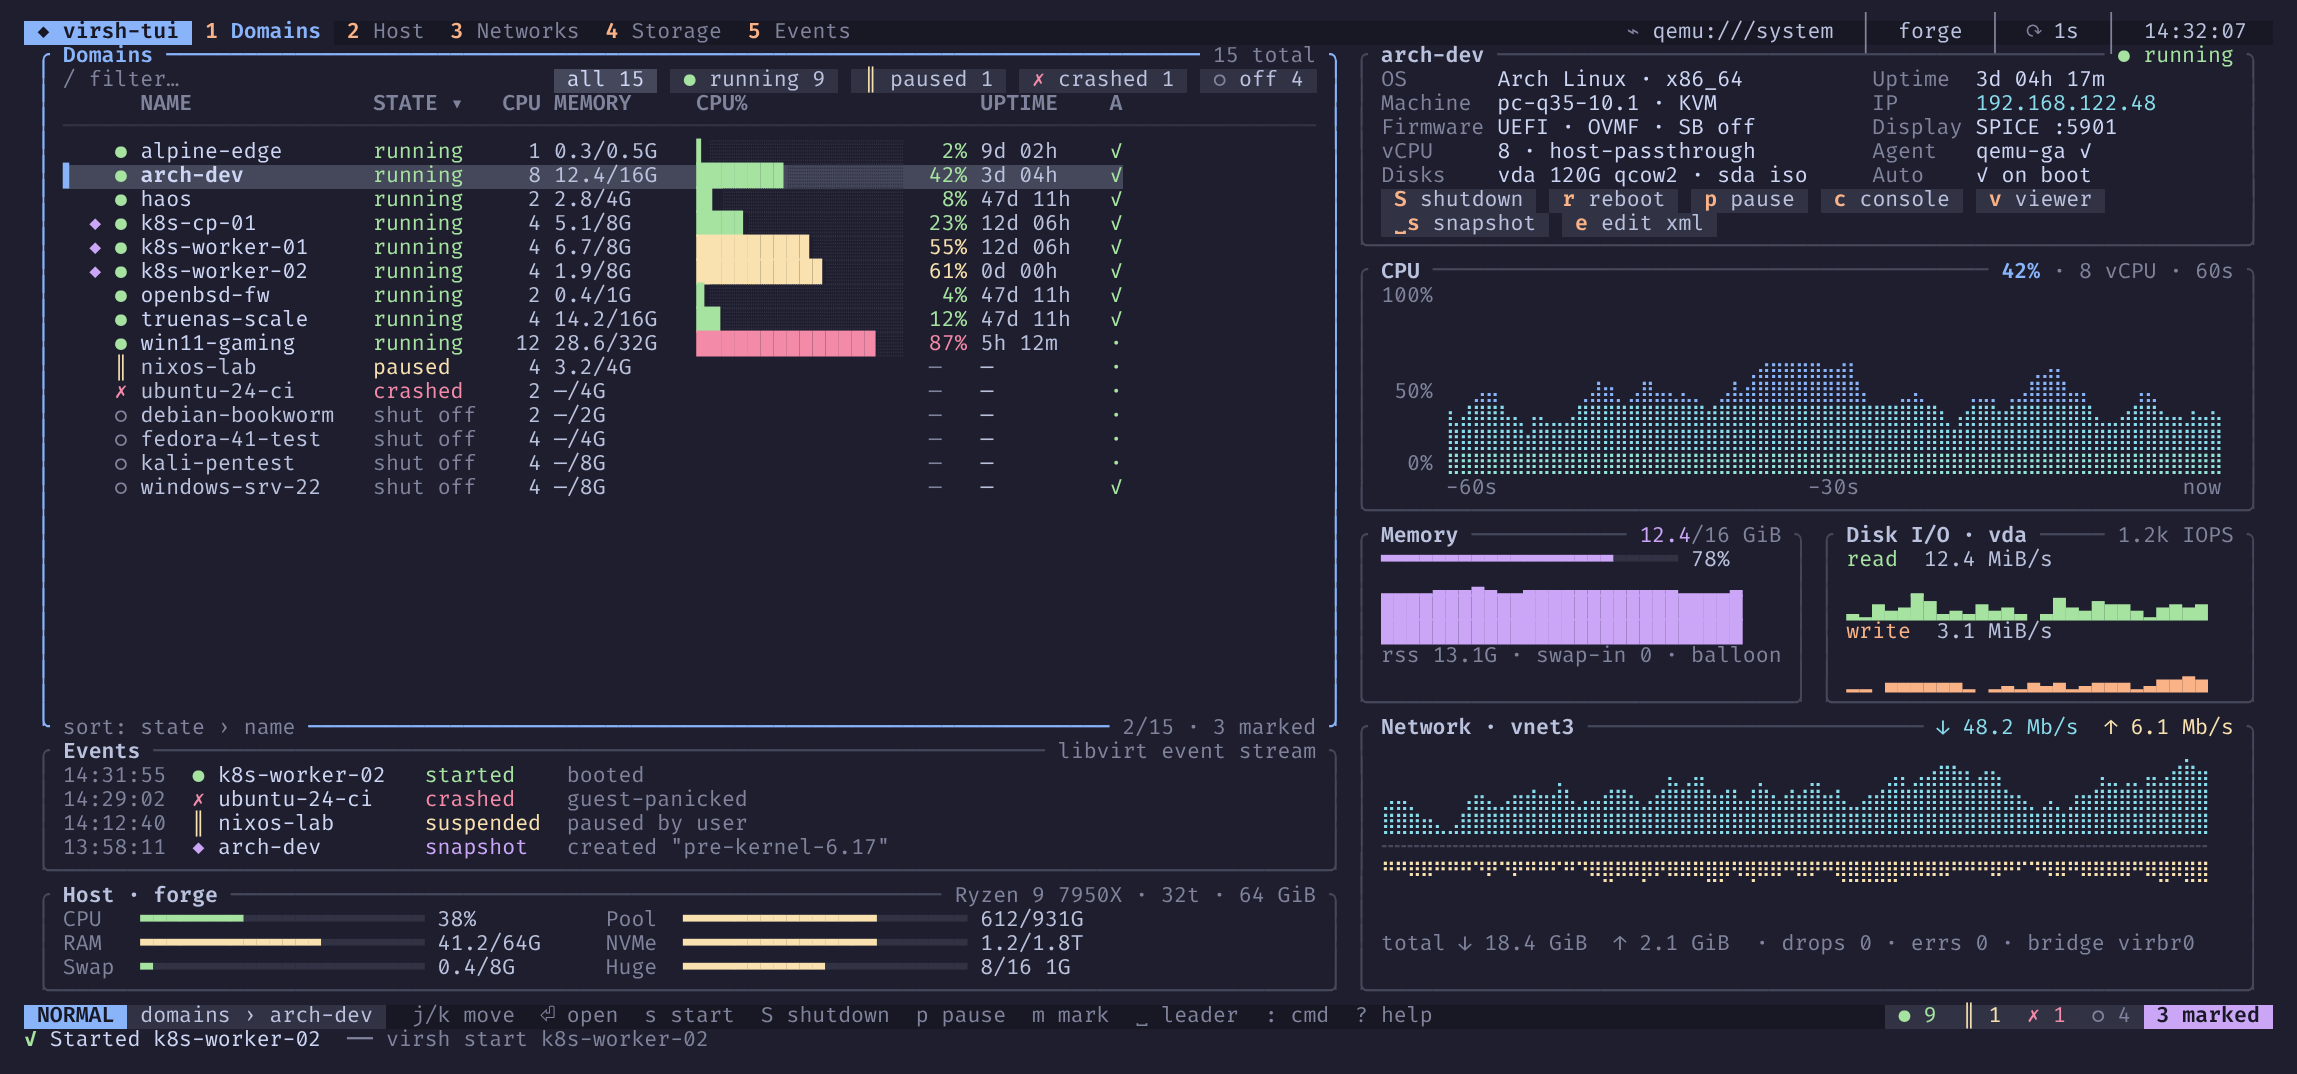
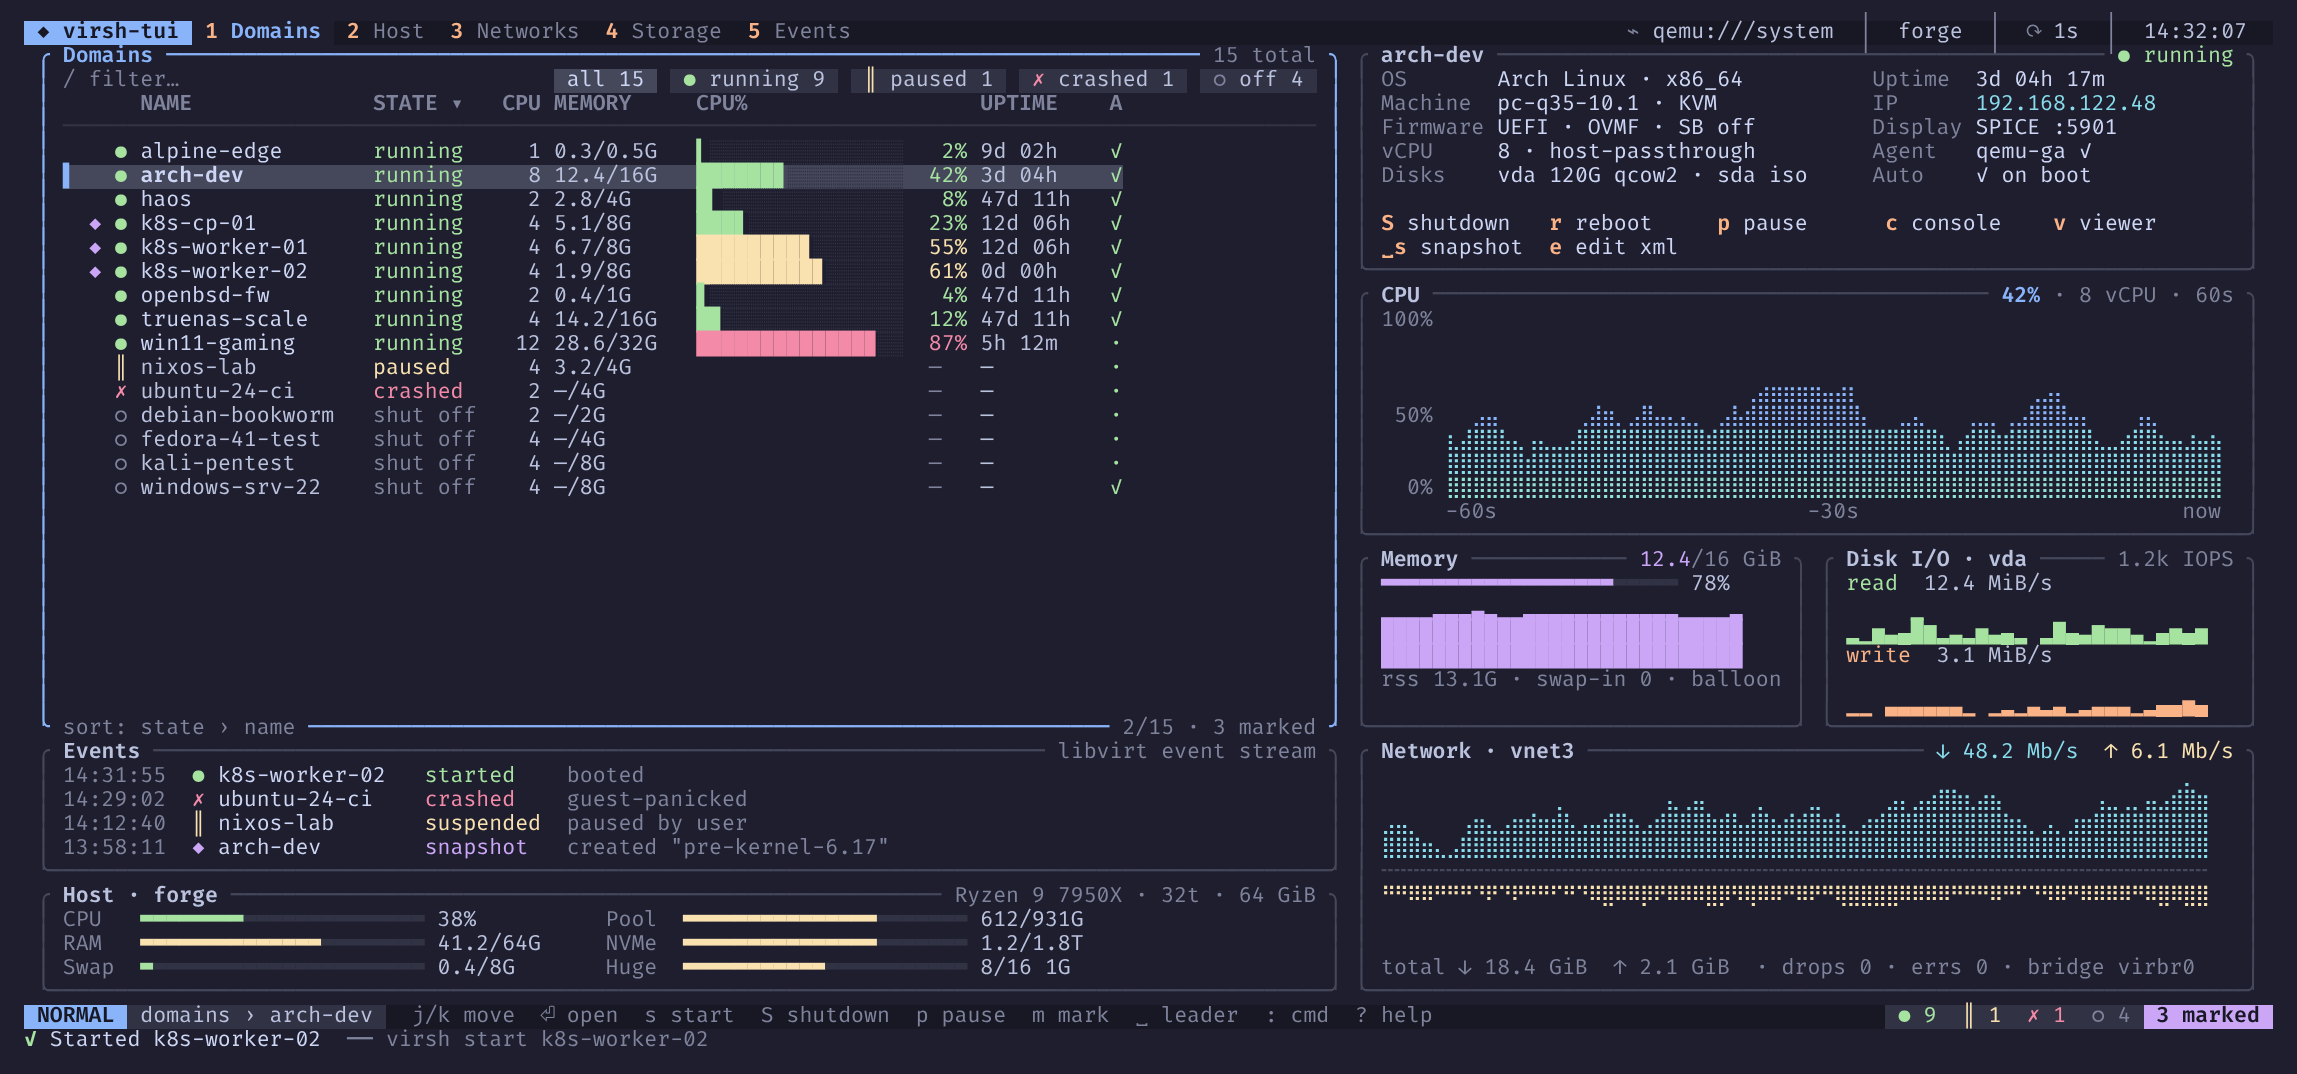
fix(dashboard): aligned, letter-sized action hints in the overview
The action chips wrapped by text length, so rows did not line up, and the
boxed style was either cramped or too tall. The overview now lists its
actions as key hints (orange key, action text) in an aligned grid with two
columns between them, after a blank line. The CPU graph adapts its height
to the space left (it had a fixed 8 rows) and keeps its time axis.

The screenshot script draws half blocks with CSS so they render solid.

diff --git a/src/ui/views/dashboard.rs b/src/ui/views/dashboard.rs
@@ -951,11 +951,22 @@ fn render_host(frame: &mut Frame, theme: &Theme, state: &DashboardState, area: R
 }
 
 fn render_right(frame: &mut Frame, theme: &Theme, state: &DashboardState, area: Rect) {
+    // Overview: borders, five info rows, a blank line, then the action rows.
+    // The CPU graph gives up to two rows when the terminal is short, so the
+    // chips keep their spacing.
+    let chip_rows = action_chips(
+        theme,
+        state.selected().state,
+        area.width.saturating_sub(4) as usize,
+    )
+    .len();
+    let overview_h = (2 + 5 + 1 + chip_rows) as u16;
+    let cpu_h = area.height.saturating_sub(overview_h + 8 + 9).clamp(9, 11);
     let rows = Layout::default()
         .direction(Direction::Vertical)
         .constraints([
-            Constraint::Length(9),
-            Constraint::Length(11),
+            Constraint::Length(overview_h),
+            Constraint::Length(cpu_h),
             Constraint::Length(8),
             Constraint::Min(9),
         ])
@@ -1008,28 +1019,27 @@ fn action_chips(theme: &Theme, state: DomainState, width: usize) -> Vec<Line<'st
             ("X", "undefine"),
         ],
     };
+    // Key hints in an aligned grid (same column width on every row, two
+    // blank columns between them): the key in orange, the action as text.
+    // No chip background: one-cell-tall boxes were either glued together or
+    // a whole blank row apart.
+    let chip_w = chips
+        .iter()
+        .map(|(k, label)| k.chars().count() + 1 + label.chars().count())
+        .max()
+        .unwrap_or(0);
+    let per_row = ((width + 2) / (chip_w + 2)).max(1);
     let mut lines = Vec::new();
-    let mut cur: Vec<Span<'static>> = Vec::new();
-    let mut w = 0;
-    for (k, label) in chips {
-        let cw = k.chars().count() + label.chars().count() + 3;
-        if w > 0 && w + 1 + cw > width {
-            lines.push(Line::from(std::mem::take(&mut cur)));
-            w = 0;
+    for row in chips.chunks(per_row) {
+        let mut cur: Vec<Span<'static>> = Vec::new();
+        for (i, (k, label)) in row.iter().enumerate() {
+            if i > 0 {
+                cur.push(Span::raw("  "));
+            }
+            let pad = chip_w - (k.chars().count() + 1 + label.chars().count());
+            cur.push(Span::styled(k.to_string(), theme.key()));
+            cur.push(Span::styled(format!(" {label}{}", " ".repeat(pad)), theme.text()));
         }
-        if w > 0 {
-            cur.push(Span::raw(" "));
-            w += 1;
-        }
-        cur.push(Span::styled(" ", chip_style(theme, false)));
-        cur.push(Span::styled(
-            k.to_string(),
-            chip_style(theme, false).patch(theme.key()),
-        ));
-        cur.push(Span::styled(format!(" {label} "), chip_style(theme, false)));
-        w += cw;
-    }
-    if !cur.is_empty() {
         lines.push(Line::from(cur));
     }
     lines
@@ -1160,8 +1170,8 @@ fn render_overview(frame: &mut Frame, theme: &Theme, state: &DashboardState, are
         ]));
     }
     let chips = action_chips(theme, sel.state, area.width.saturating_sub(4) as usize);
-    let free = (area.height as usize).saturating_sub(2 + lines.len());
-    if free > chips.len() {
+    // A blank line separates the info rows from the actions when it fits.
+    if (area.height as usize).saturating_sub(2 + lines.len()) > chips.len() {
         lines.push(Line::from(""));
     }
     lines.extend(chips);
@@ -1239,19 +1249,29 @@ fn render_cpu(frame: &mut Frame, theme: &Theme, state: &DashboardState, area: Re
             format!("42% · 8 vCPU · {}", crate::metrics::store::window_label()),
         ),
     };
-    let rows = charts::area(theme.graphs, &data, width, 8, BrailleMode::Fill);
+    // The graph takes what the panel leaves after its borders and the time
+    // axis (8 rows at the reference size, fewer on short terminals).
+    let graph_h = (area.height.saturating_sub(3) as usize).clamp(3, 8);
+    let rows = charts::area(theme.graphs, &data, width, graph_h, BrailleMode::Fill);
     let t = &theme.tokens;
     let colors = theme.chart_rows(&[
         t.red, t.magenta, t.magenta, t.blue, t.blue, t.cyan, t.cyan, t.teal,
     ]);
-    let labels = ["100%", "", "", "", " 50%", "", "", "  0%"];
+    let label = |i: usize| match i {
+        0 => "100%",
+        i if i == graph_h - 1 => "  0%",
+        i if i == graph_h / 2 => " 50%",
+        _ => "",
+    };
     let mut lines: Vec<Line> = rows
         .iter()
         .enumerate()
         .map(|(i, r)| {
+            // Keep the colour gradient top to bottom whatever the height.
+            let color = colors[(i * 8 / graph_h).min(7)];
             Line::from(vec![
-                Span::styled(format!("{:<5}", labels[i]), theme.dim()),
-                Span::styled(r.clone(), Style::default().fg(colors[i]).bg(t.bg)),
+                Span::styled(format!("{:<5}", label(i)), theme.dim()),
+                Span::styled(r.clone(), Style::default().fg(color).bg(t.bg)),
             ])
         })
         .collect();

diff --git a/CHANGELOG.md b/CHANGELOG.md
@@ -11,6 +11,9 @@ All notable changes to this project are documented here. The format follows
 - The dashboard shows the metrics next to the domain list from 153 columns
   (it needed 162). The list gives up its spare columns first, so common
   159-column terminals get the same layout as the screenshots.
+- The actions in the domain overview are plain key hints (orange key,
+  action text) in an aligned grid instead of boxed chips; the CPU graph
+  adapts its height to the space left.
 
 ## [0.1.0] - 2026-10-07
 
